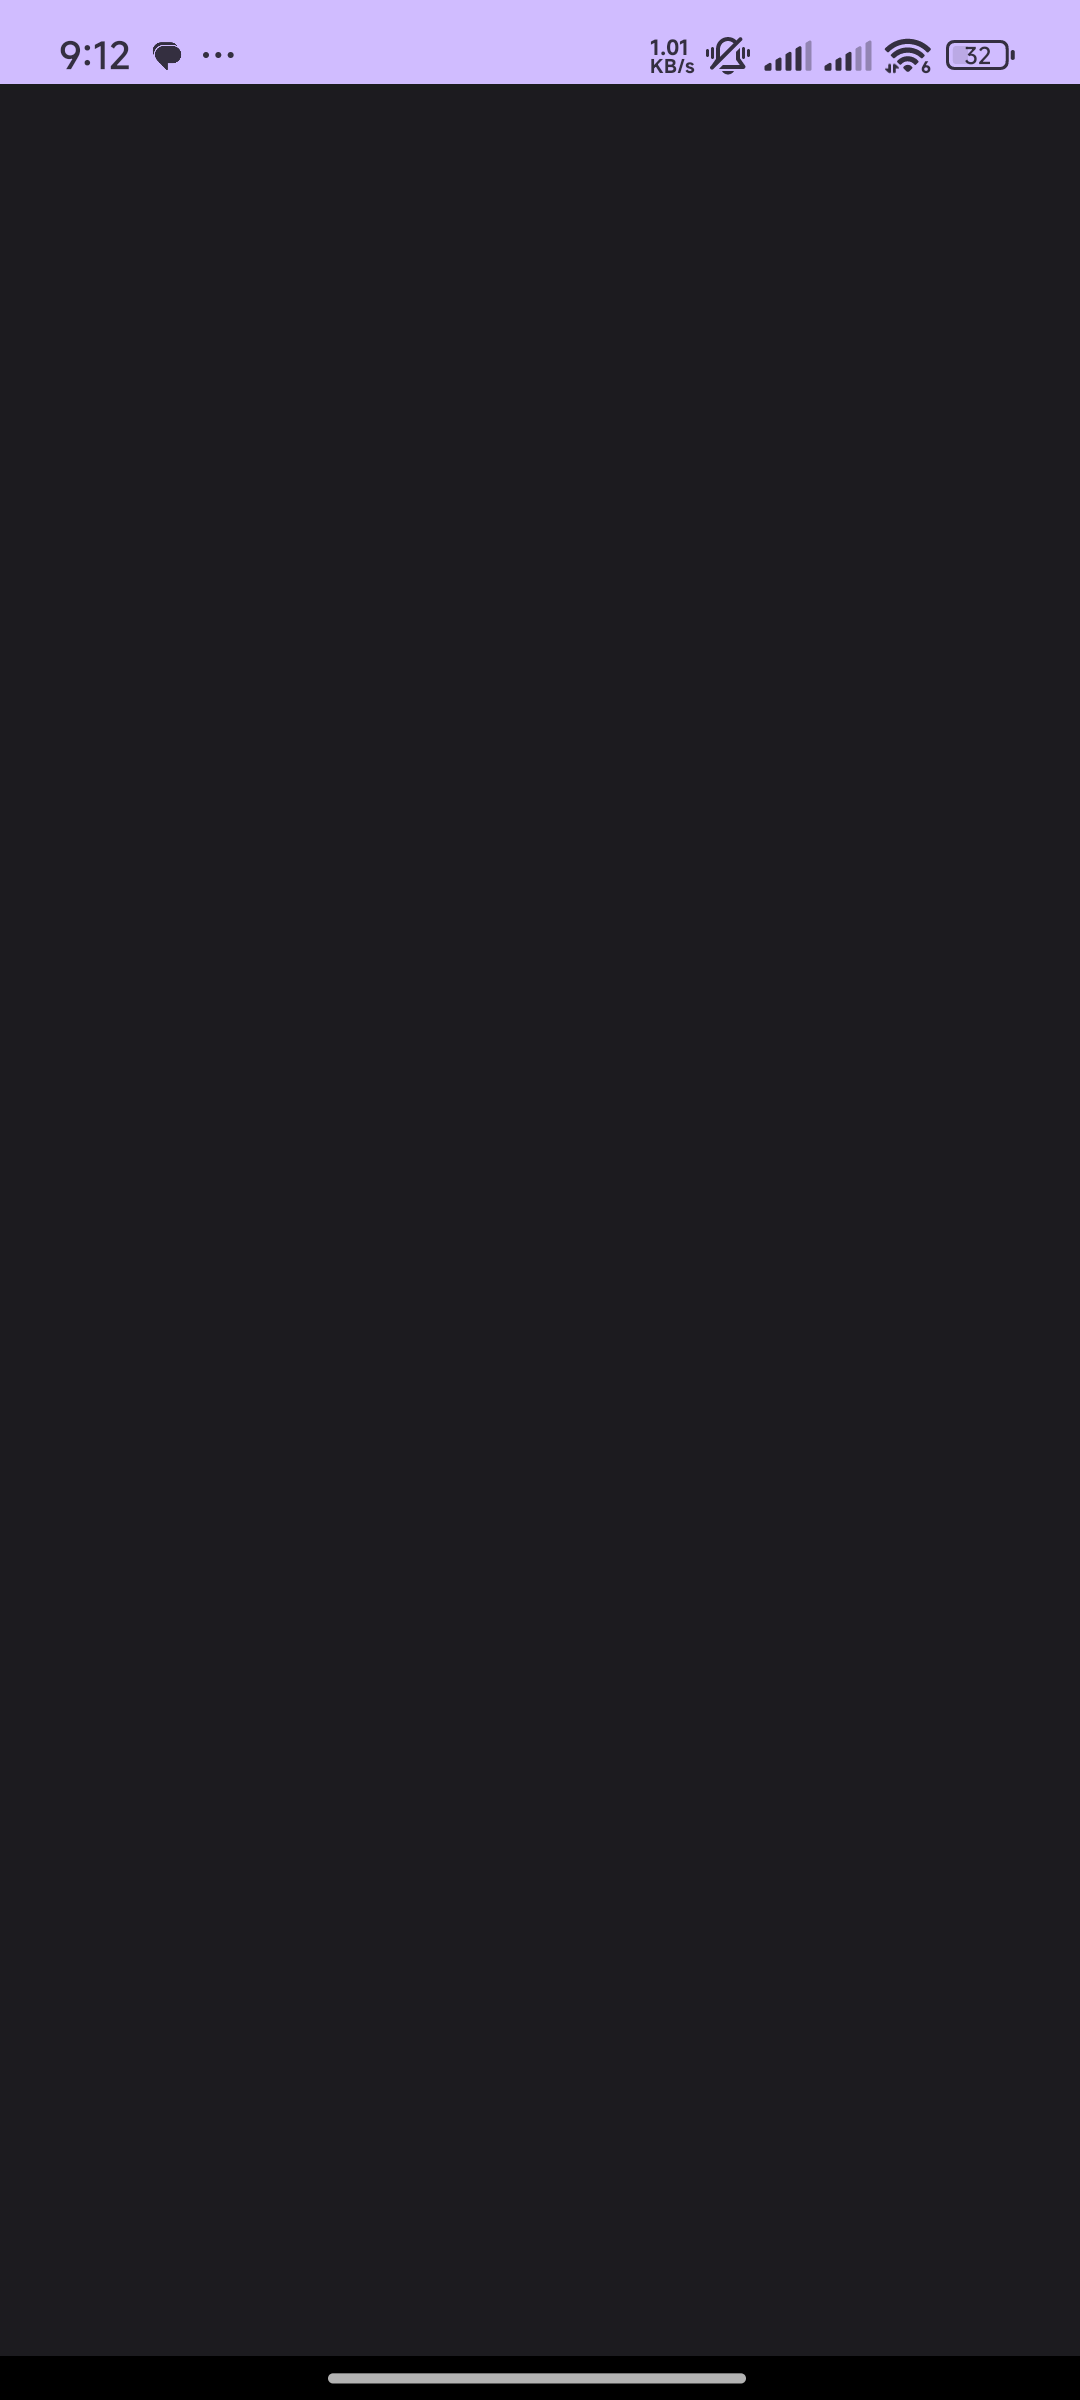
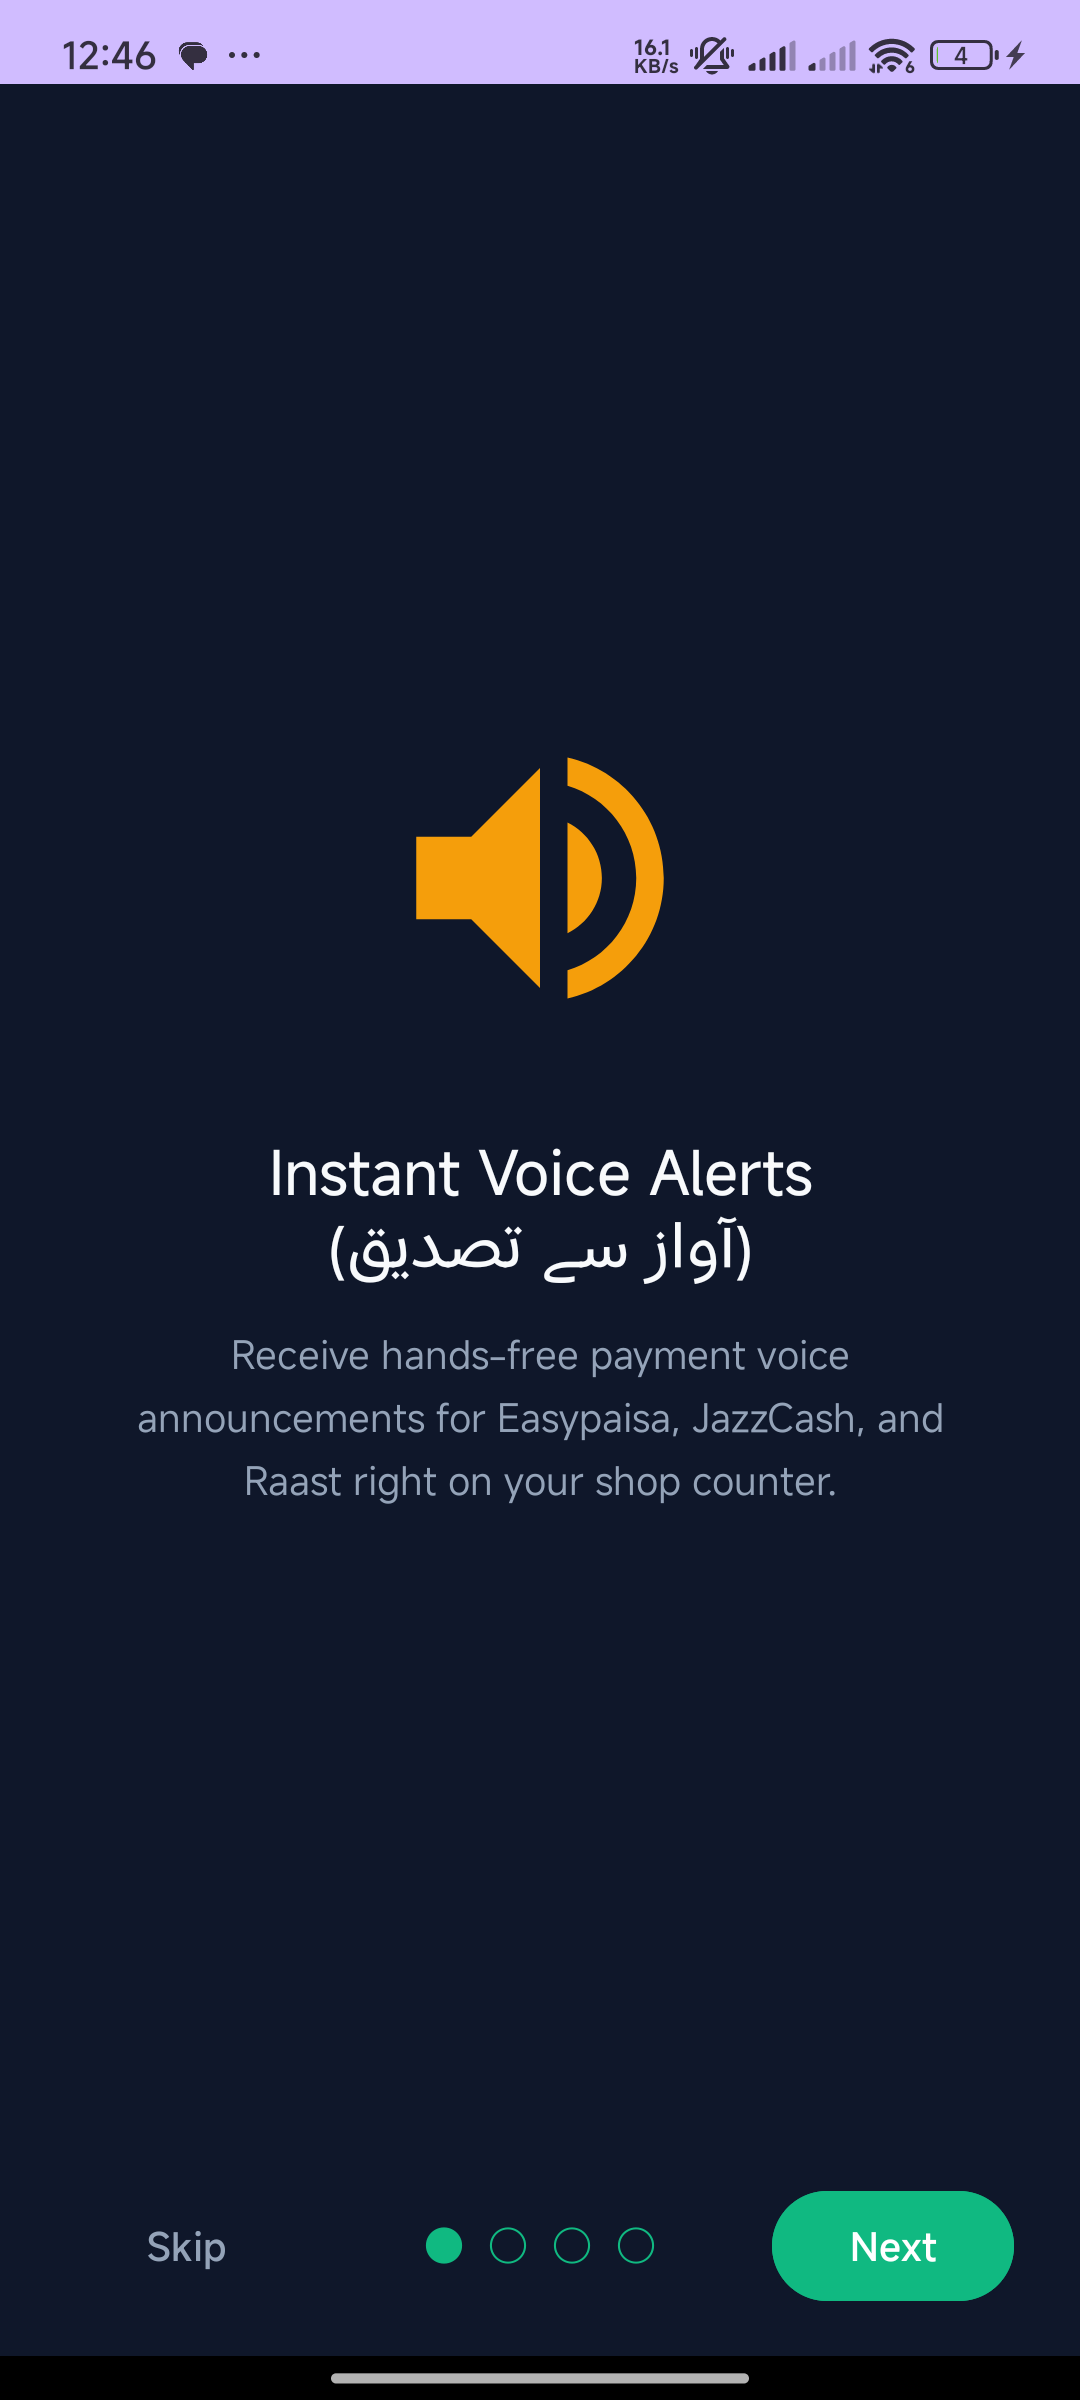
feat(onboarding): implement ViewPager2 walkthrough carousel for first-time permissions and wallet intro

diff --git a/app/src/main/java/com/bolpaisa/app/ui/OnboardingActivity.kt b/app/src/main/java/com/bolpaisa/app/ui/OnboardingActivity.kt
@@ -1,0 +1,115 @@
+package com.bolpaisa.app.ui
+
+import android.content.Intent
+import android.os.Bundle
+import android.widget.Button
+import android.widget.TextView
+import androidx.appcompat.app.AppCompatActivity
+import androidx.security.crypto.EncryptedSharedPreferences
+import androidx.security.crypto.MasterKey
+import androidx.viewpager2.widget.ViewPager2
+import com.bolpaisa.app.R
+
+class OnboardingActivity : AppCompatActivity() {
+
+    companion object {
+        const val KEY_ONBOARDING_COMPLETED = "key_onboarding_completed"
+    }
+
+    private lateinit var viewPager: ViewPager2
+    private lateinit var btnSkip: Button
+    private lateinit var btnNextContinue: Button
+    private lateinit var tvDotsIndicator: TextView
+
+    private val dots = arrayOf("● ○ ○ ○", "○ ● ○ ○", "○ ○ ● ○", "○ ○ ○ ●")
+
+    override fun onCreate(savedInstanceState: Bundle?) {
+        super.onCreate(savedInstanceState)
+        setContentView(R.layout.activity_onboarding)
+
+        viewPager = findViewById(R.id.viewPagerOnboarding)
+        btnSkip = findViewById(R.id.btnSkip)
+        btnNextContinue = findViewById(R.id.btnNextContinue)
+        tvDotsIndicator = findViewById(R.id.tvDotsIndicator)
+
+        val slides = listOf(
+            OnboardingSlide(
+                title = "Instant Voice Alerts\n(آواز سے تصدیق)",
+                subtitle = "Receive hands-free payment voice announcements for Easypaisa, JazzCash, and Raast right on your shop counter.",
+                iconResId = R.drawable.ic_speaker
+            ),
+            OnboardingSlide(
+                title = "Select Your Wallets",
+                subtitle = "Supports Easypaisa (3737), JazzCash (8558), and Raast dynamic Till & account payment notifications.",
+                iconResId = R.drawable.ic_qr
+            ),
+            OnboardingSlide(
+                title = "Enable Notification Access",
+                subtitle = "BolPaisa requires Notification Access to listen for incoming payment notifications and announce amounts.",
+                iconResId = R.drawable.ic_analytics,
+                actionText = "Enable Permission",
+                onActionClick = {
+                    try {
+                        startActivity(Intent("android.settings.ACTION_NOTIFICATION_LISTENER_SETTINGS"))
+                    } catch (e: Exception) {
+                        e.printStackTrace()
+                    }
+                }
+            ),
+            OnboardingSlide(
+                title = "100% Offline & Private\n(محفوظ اور پرائیویٹ)",
+                subtitle = "Your transaction history and activation keys stay 100% locally on your device with zero cloud syncing.",
+                iconResId = R.drawable.logo_mark
+            )
+        )
+
+        val adapter = OnboardingAdapter(slides)
+        viewPager.adapter = adapter
+
+        viewPager.registerOnPageChangeCallback(object : ViewPager2.OnPageChangeCallback() {
+            override fun onPageSelected(position: Int) {
+                super.onPageSelected(position)
+                tvDotsIndicator.text = dots[position]
+                if (position == slides.size - 1) {
+                    btnNextContinue.text = "Continue"
+                } else {
+                    btnNextContinue.text = "Next"
+                }
+            }
+        })
+
+        btnSkip.setOnClickListener {
+            completeOnboarding()
+        }
+
+        btnNextContinue.setOnClickListener {
+            if (viewPager.currentItem < slides.size - 1) {
+                viewPager.currentItem = viewPager.currentItem + 1
+            } else {
+                completeOnboarding()
+            }
+        }
+    }
+
+    private fun completeOnboarding() {
+        try {
+            val masterKey = MasterKey.Builder(this)
+                .setKeyScheme(MasterKey.KeyScheme.AES256_GCM)
+                .build()
+
+            val prefs = EncryptedSharedPreferences.create(
+                this,
+                "secure_onboarding_prefs",
+                masterKey,
+                EncryptedSharedPreferences.PrefKeyEncryptionScheme.AES256_SIV,
+                EncryptedSharedPreferences.PrefValueEncryptionScheme.AES256_GCM
+            )
+            prefs.edit().putBoolean(KEY_ONBOARDING_COMPLETED, true).apply()
+        } catch (e: Exception) {
+            e.printStackTrace()
+        }
+
+        startActivity(Intent(this, MainActivity::class.java))
+        finish()
+    }
+}

diff --git a/app/src/main/java/com/bolpaisa/app/ui/OnboardingAdapter.kt b/app/src/main/java/com/bolpaisa/app/ui/OnboardingAdapter.kt
@@ -1,0 +1,57 @@
+package com.bolpaisa.app.ui
+
+import android.view.LayoutInflater
+import android.view.View
+import android.view.ViewGroup
+import android.widget.Button
+import android.widget.ImageView
+import android.widget.TextView
+import androidx.recyclerview.widget.RecyclerView
+import com.bolpaisa.app.R
+
+data class OnboardingSlide(
+    val title: String,
+    val subtitle: String,
+    val iconResId: Int,
+    val actionText: String? = null,
+    val onActionClick: (() -> Unit)? = null
+)
+
+class OnboardingAdapter(
+    private val slides: List<OnboardingSlide>
+) : RecyclerView.Adapter<OnboardingAdapter.SlideViewHolder>() {
+
+    override fun onCreateViewHolder(parent: ViewGroup, viewType: Int): SlideViewHolder {
+        val view = LayoutInflater.from(parent.context).inflate(R.layout.item_onboarding_slide, parent, false)
+        return SlideViewHolder(view)
+    }
+
+    override fun onBindViewHolder(holder: SlideViewHolder, position: Int) {
+        holder.bind(slides[position])
+    }
+
+    override fun getItemCount(): Int = slides.size
+
+    inner class SlideViewHolder(itemView: View) : RecyclerView.ViewHolder(itemView) {
+        private val ivIcon: ImageView = itemView.findViewById(R.id.ivSlideIcon)
+        private val tvTitle: TextView = itemView.findViewById(R.id.tvSlideTitle)
+        private val tvSubtitle: TextView = itemView.findViewById(R.id.tvSlideSubtitle)
+        private val btnAction: Button = itemView.findViewById(R.id.btnSlideAction)
+
+        fun bind(slide: OnboardingSlide) {
+            ivIcon.setImageResource(slide.iconResId)
+            tvTitle.text = slide.title
+            tvSubtitle.text = slide.subtitle
+
+            if (slide.actionText != null && slide.onActionClick != null) {
+                btnAction.text = slide.actionText
+                btnAction.visibility = View.VISIBLE
+                btnAction.setOnClickListener {
+                    slide.onActionClick.invoke()
+                }
+            } else {
+                btnAction.visibility = View.GONE
+            }
+        }
+    }
+}

diff --git a/app/src/main/java/com/bolpaisa/app/ui/SplashActivity.kt b/app/src/main/java/com/bolpaisa/app/ui/SplashActivity.kt
@@ -5,8 +5,9 @@ import android.os.Bundle
 import android.os.Handler
 import android.os.Looper
 import androidx.appcompat.app.AppCompatActivity
+import androidx.security.crypto.EncryptedSharedPreferences
+import androidx.security.crypto.MasterKey
 import com.bolpaisa.app.R
-import com.bolpaisa.app.licensing.SubscriptionManager
 
 class SplashActivity : AppCompatActivity() {
 
@@ -14,12 +15,34 @@ class SplashActivity : AppCompatActivity() {
         super.onCreate(savedInstanceState)
         setContentView(R.layout.activity_splash)
 
-        val subscriptionManager = SubscriptionManager(this)
-
         Handler(Looper.getMainLooper()).postDelayed({
-            val intent = Intent(this, MainActivity::class.java)
+            val isOnboardingCompleted = checkOnboardingCompleted()
+            val intent = if (isOnboardingCompleted) {
+                Intent(this, MainActivity::class.java)
+            } else {
+                Intent(this, OnboardingActivity::class.java)
+            }
             startActivity(intent)
             finish()
-        }, 1500) // 1.5 second splash delay
+        }, 1500)
+    }
+
+    private fun checkOnboardingCompleted(): Boolean {
+        return try {
+            val masterKey = MasterKey.Builder(this)
+                .setKeyScheme(MasterKey.KeyScheme.AES256_GCM)
+                .build()
+
+            val prefs = EncryptedSharedPreferences.create(
+                this,
+                "secure_onboarding_prefs",
+                masterKey,
+                EncryptedSharedPreferences.PrefKeyEncryptionScheme.AES256_SIV,
+                EncryptedSharedPreferences.PrefValueEncryptionScheme.AES256_GCM
+            )
+            prefs.getBoolean(OnboardingActivity.KEY_ONBOARDING_COMPLETED, false)
+        } catch (e: Exception) {
+            false
+        }
     }
 }
